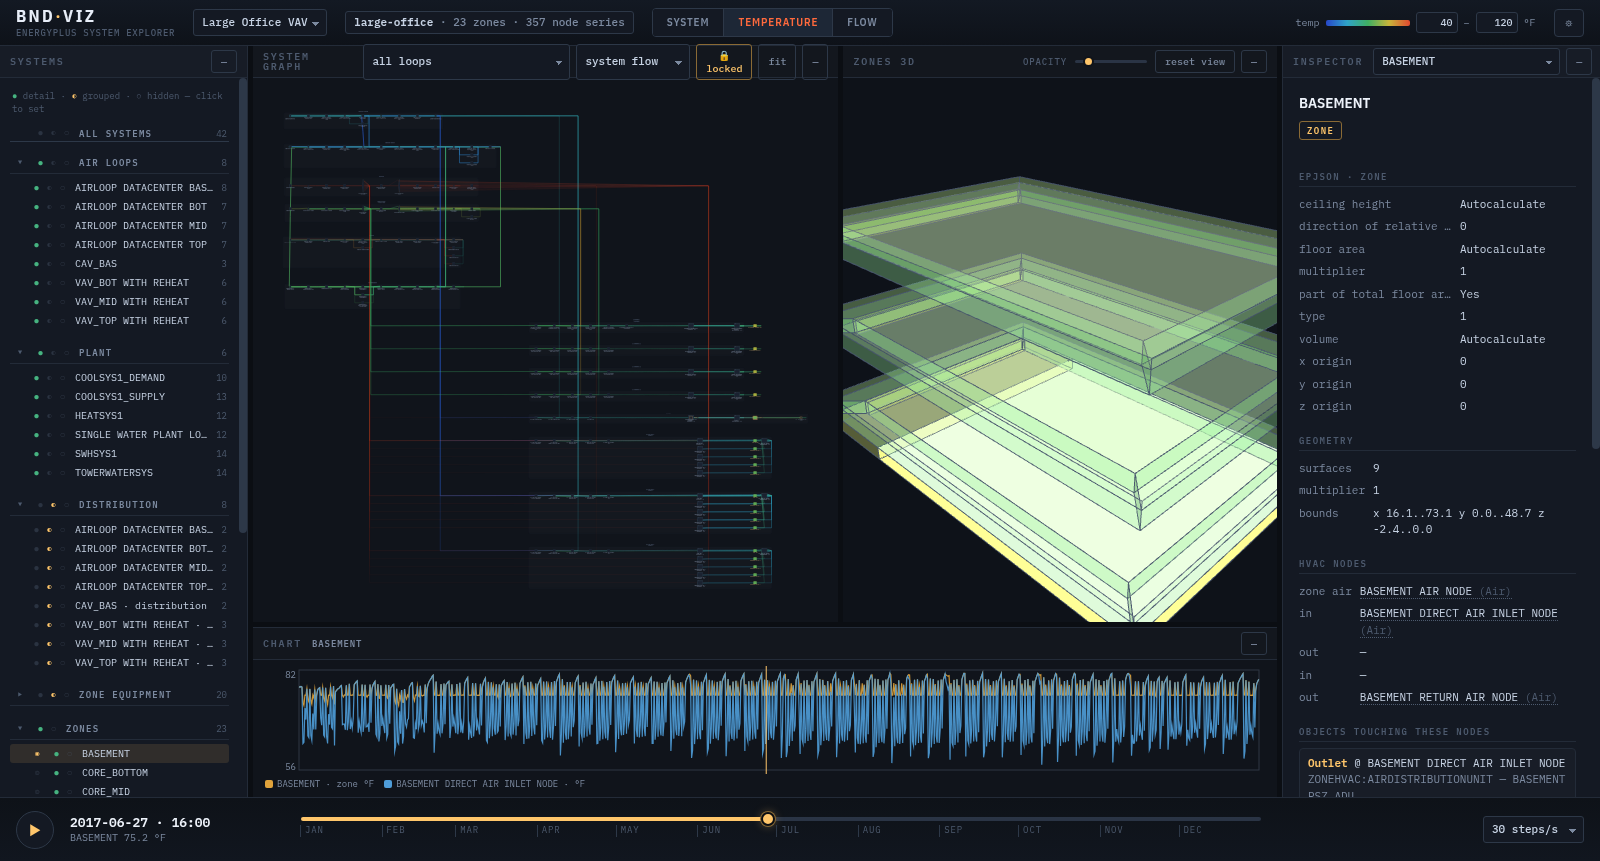
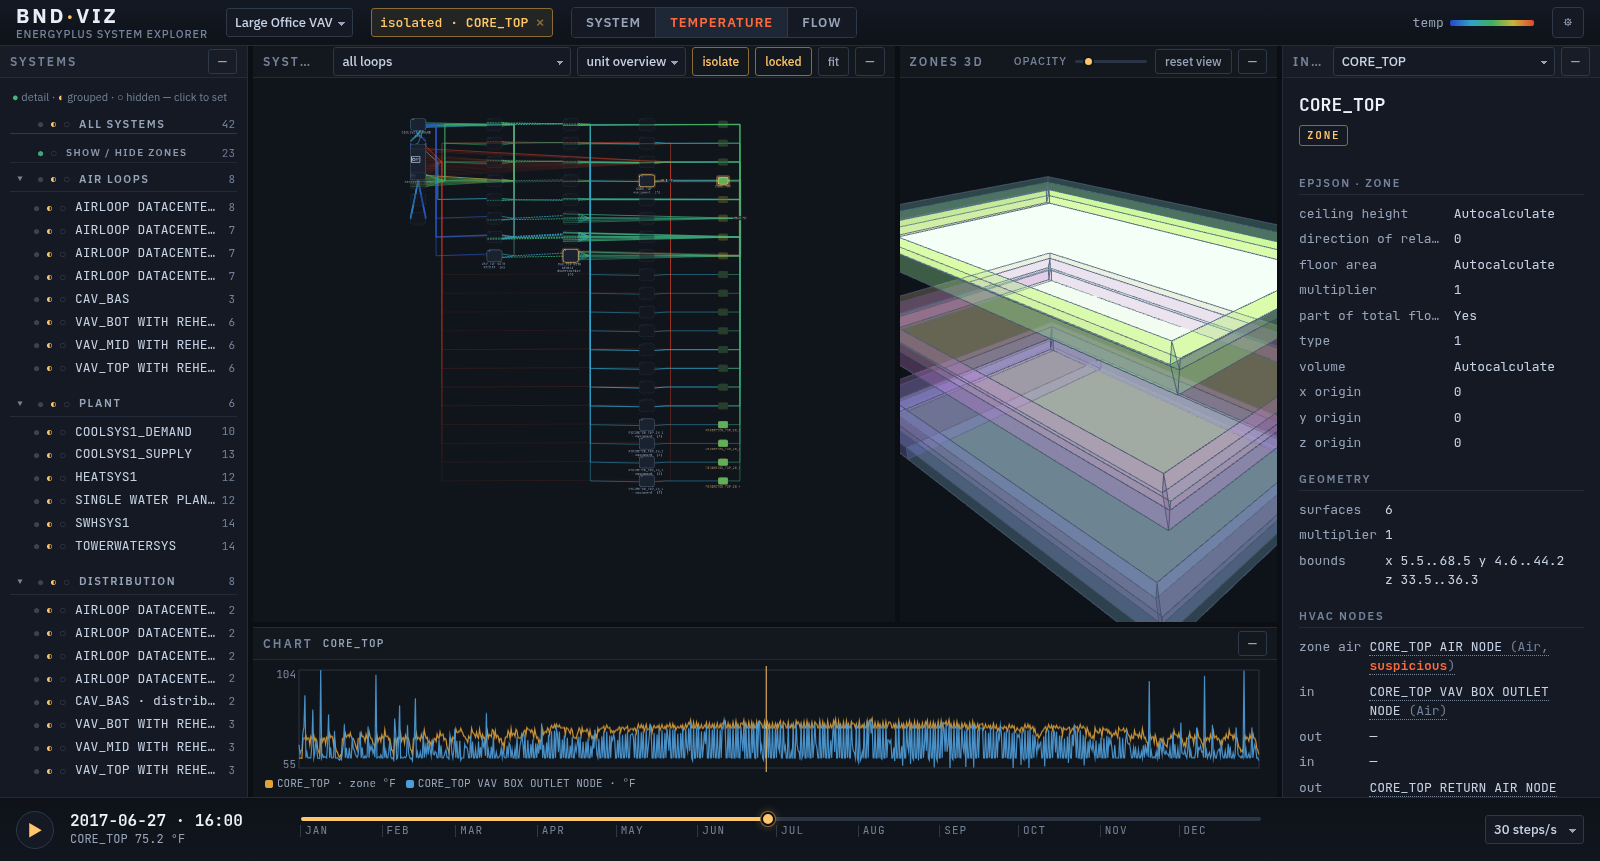
Public-facing: refresh landing screenshots to current UI; add OG/social tags
- Regenerate the three docs/ screenshots — the committed ones predated this
  week's UI work and still showed the dataset chip, lock emoji, isolate glyph,
  and dimmer text
- Add Open Graph + Twitter Card meta (and a meta description on the app) so a
  shared demo/landing link renders a proper card instead of a bare link;
  og:image points at the landing's overview screenshot

Claude-Session: https://claude.ai/code/session_0113kcgF814XWa4sdu899FUF

diff --git a/docs/index.html b/docs/index.html
@@ -11,6 +11,18 @@
   <link rel="stylesheet" href="styles.css" />
   <meta name="description"
     content="A browser-based EnergyPlus HVAC explorer: branch/loop graph, 3D zone heatmaps, and annual playback — all client-side." />
+  <meta property="og:type" content="website" />
+  <meta property="og:title" content="bnd·viz — EnergyPlus HVAC explorer" />
+  <meta property="og:description"
+    content="EnergyPlus HVAC topology & timeseries, in the browser: branch/loop graph, 3D zone heatmaps, annual playback." />
+  <meta property="og:url" content="https://michaelsweeney.github.io/eplus-bnd-branch-visualizer/" />
+  <meta property="og:image"
+    content="https://michaelsweeney.github.io/eplus-bnd-branch-visualizer/screenshots/overview.png" />
+  <meta name="twitter:card" content="summary_large_image" />
+  <meta name="twitter:title" content="bnd·viz — EnergyPlus HVAC explorer" />
+  <meta name="twitter:description" content="EnergyPlus HVAC topology & timeseries, in the browser." />
+  <meta name="twitter:image"
+    content="https://michaelsweeney.github.io/eplus-bnd-branch-visualizer/screenshots/overview.png" />
 </head>
 
 <body>

diff --git a/index.html b/index.html
@@ -4,6 +4,16 @@
 <meta charset="utf-8">
 <title>BND·VIZ — EnergyPlus system explorer</title>
 <link rel="icon" type="image/svg+xml" href="/favicon.svg">
+<meta name="description" content="Browser-based EnergyPlus HVAC explorer: branch/loop graph, 3D zone heatmaps, and annual playback — all client-side.">
+<meta property="og:type" content="website">
+<meta property="og:title" content="BND·VIZ — EnergyPlus system explorer">
+<meta property="og:description" content="Branch/loop graph, 3D zone heatmaps, and annual playback for any EnergyPlus model — all client-side.">
+<meta property="og:url" content="https://eplus-bnd-viz.pages.dev/">
+<meta property="og:image" content="https://michaelsweeney.github.io/eplus-bnd-branch-visualizer/screenshots/overview.png">
+<meta name="twitter:card" content="summary_large_image">
+<meta name="twitter:title" content="BND·VIZ — EnergyPlus system explorer">
+<meta name="twitter:description" content="Branch/loop graph, 3D zone heatmaps, and annual playback for any EnergyPlus model — all client-side.">
+<meta name="twitter:image" content="https://michaelsweeney.github.io/eplus-bnd-branch-visualizer/screenshots/overview.png">
 <link rel="preconnect" href="https://fonts.googleapis.com">
 <link rel="preconnect" href="https://fonts.gstatic.com" crossorigin>
 <link href="https://fonts.googleapis.com/css2?family=IBM+Plex+Sans:wght@400;500;600;700&family=JetBrains+Mono:wght@400;500;600&display=swap" rel="stylesheet">